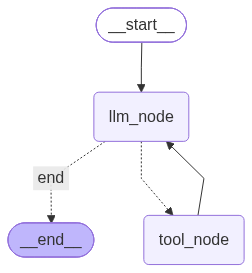
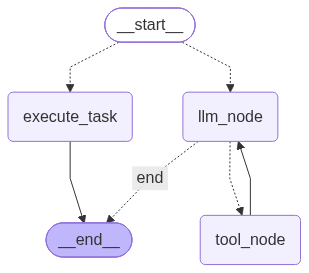
update to use etl agent

diff --git a/agents/etl_agent.py b/agents/etl_agent.py
@@ -4,8 +4,8 @@ import config
 from utils.llm_picker import get_llm
 from utils.etl_tools import ETLTools
 from utils.prompts import etl_prompt
-from Models.schema import ETLAgentSchema
-from database.etl_service import fetch_and_load_financial_data
+from Models.schema import ETLAgentSchema, ETLLoadOutcome
+from database.etl_service import fetch_and_load_company_profile, fetch_and_load_financial_data
 
 from langchain_core.messages import ToolMessage
 from langgraph.graph import StateGraph, START, END
@@ -34,8 +34,66 @@ def extract_load_tool(url: str, output_folder: str, output_format: str)->str:
 def financial_etl(ticker: str, dataset: str, required_years: list[int])->dict:
     """
     Tool function to fetch and load missing financial data for a ticker and years.
+    Args:
+        ticker (str): The stock ticker symbol.
+        dataset (str): The dataset to fetch and load (e.g., 'income-statement', 'balance-sheet', 'cash-flow').
+        required_years (list[int]): The list of years for which data is required.
+    Returns:
+        dict: A dictionary containing the status of the operation, loaded years, missing years, and any error messages.
     """
     return fetch_and_load_financial_data(ticker=ticker, dataset=dataset, required_years=required_years)
+
+
+@tool
+def company_profile_etl(ticker: str) -> dict:
+    """
+    Fetch and load a company profile.
+    """
+    return fetch_and_load_company_profile(ticker=ticker)
+
+
+def execute_task_node(state: ETLAgentSchema) -> ETLAgentSchema:
+    """
+    Execute a structured ETL task using the deterministic service layer.
+    """
+    
+    if state.dataset == "companies":
+        result = company_profile_etl.invoke({"ticker": state.ticker})
+    else:
+        result = financial_etl.invoke(
+            {
+                "ticker": state.ticker,
+                "dataset": state.dataset,
+                "required_years": state.required_years,
+            }
+        )
+
+    requested_years = state.required_years
+    loaded_years = (
+        requested_years
+        if result["success"] and state.dataset == "companies"
+        else [year for year in requested_years if year not in result.get("missing_years", requested_years)]
+    )
+    
+    if result["success"]:
+        status = "SUCCESS"
+    elif loaded_years:
+        status = "PARTIAL"
+    elif result.get("error"):
+        status = "FAILED"
+    else:
+        status = "UNAVAILABLE"
+
+    state.result = result
+    state.outcome = ETLLoadOutcome(
+        ticker=state.ticker,
+        dataset=state.dataset,
+        status=status,
+        loaded_years=loaded_years,
+        missing_years=result.get("missing_years", []),
+        error_message=result.get("error"),
+    )
+    return state
 
 
 def llm_node(state: ETLAgentSchema)-> ETLAgentSchema:
@@ -47,7 +105,7 @@ def llm_node(state: ETLAgentSchema)-> ETLAgentSchema:
     messages = state.messages
     
     llm=get_llm("low")
-    tools = [extract_load_tool, financial_etl]
+    tools = [extract_load_tool, financial_etl, company_profile_etl]
     chain = etl_prompt | llm.bind_tools(tools)
     response = chain.invoke({ "messages": messages })
     
@@ -61,7 +119,7 @@ def tool_node(state: ETLAgentSchema)-> ETLAgentSchema:
     This node is responsible for invoking the appropriate tool based on the user's question and the context provided by the LLM.
     """
     
-    tool_kits = [extract_load_tool, financial_etl]
+    tool_kits = [extract_load_tool, financial_etl, company_profile_etl]
     tools_result = []
     tool_by_name = {tool.name: tool for tool in tool_kits}
     
@@ -89,6 +147,7 @@ def build_etl_graph():
     
     graph = StateGraph(ETLAgentSchema)
     
+    graph.add_node("execute_task", execute_task_node)
     graph.add_node("llm_node", llm_node)
     graph.add_node("tool_node", tool_node)
     
@@ -99,7 +158,18 @@ def build_etl_graph():
             return "tool_node"
         return "end"
     
-    graph.add_edge(START, "llm_node")
+    def choose_entry(state: ETLAgentSchema):
+        return "execute_task" if state.ticker and state.dataset else "llm_node"
+
+    graph.add_conditional_edges(
+        START,
+        choose_entry,
+        {
+            "execute_task": "execute_task",
+            "llm_node": "llm_node",
+        },
+    )
+    graph.add_edge("execute_task", END)
     graph.add_conditional_edges(
         "llm_node",is_tool_call,
         {

diff --git a/agents/data_agent.py b/agents/data_agent.py
@@ -3,10 +3,10 @@ import config
 from utils.llm_picker import get_llm
 from utils.prompts import extract_query_entities_prompt
 from Models.schema import DataAgentSchema, QueryExtractionSchema
+from agents.etl_agent import build_etl_graph
 from agents.sql_agent import build_sql_graph
 
 from database.coverage import check_requested_coverage
-from database.etl_service import fetch_and_load_company_profile, fetch_and_load_financial_data
 
 from langchain_core.messages import SystemMessage, HumanMessage, AIMessage
 from langgraph.graph import StateGraph, START, END
@@ -102,7 +102,7 @@ def next_action_node(state: DataAgentSchema) -> DataAgentSchema:
 
 def etl_node(state: DataAgentSchema) -> DataAgentSchema:
     """
-    Fetch missing financial data using deterministic ETL.
+    Fetch missing financial data through the ETL specialist subgraph.
     """
 
     if state.attempts >= state.max_attempts:
@@ -111,22 +111,24 @@ def etl_node(state: DataAgentSchema) -> DataAgentSchema:
         return state
     
     state.attempts += 1
+    etl_graph = build_etl_graph()
 
     for dataset, missing_years in state.missing_data.items():
-        if dataset == "companies":
-            result = fetch_and_load_company_profile(ticker=state.ticker)
-            state.observations.append(
-                f"ETL result for {dataset}: {result}"
-                f" ETL attempt: {state.attempts}"
-            )
+        if dataset != "companies" and not missing_years:
             continue
-
-        if not missing_years:
-            continue
-        result = fetch_and_load_financial_data(ticker=state.ticker,dataset=dataset,required_years=missing_years)
+        response = etl_graph.invoke(
+            {
+                "ticker": state.ticker,
+                "dataset": dataset,
+                "required_years": missing_years,
+            }
+        )
+        response = response.model_dump() 
+        outcome = response.get("outcome", None)
+        result =  response.get("result", None)
 
         state.observations.append(
-            f"ETL result for {dataset}: {result}"
+            f"ETL result for {dataset}: {result}; outcome={outcome}"
             f" ETL attempt: {state.attempts}"
         )
 

diff --git a/tests/test_data_agent.py b/tests/test_data_agent.py
@@ -1,5 +1,5 @@
 from Models.schema import DataAgentSchema
-from agents.data_agent import next_action_node
+from agents.data_agent import etl_node, next_action_node
 
 
 def test_etl_stops_when_retry_limit_is_reached():
@@ -38,3 +38,41 @@ def test_etl_is_attempted_when_retries_remain():
     result = next_action_node(state)
 
     assert result.next_action == "fetch_missing_data"
+
+
+def test_etl_node_invokes_the_etl_subgraph(monkeypatch):
+    calls = []
+
+    class FakeETLGraph:
+        def invoke(self, task):
+            calls.append(task)
+            return {
+                "result": {
+                    "success": True,
+                    "missing_years": [],
+                },
+                "outcome": {
+                    "status": "SUCCESS",
+                },
+            }
+
+    monkeypatch.setattr(
+        "agents.data_agent.build_etl_graph",
+        lambda: FakeETLGraph(),
+    )
+
+    state = DataAgentSchema(
+        ticker="AAPL",
+        missing_data={"income_statement": [2024]},
+    )
+
+    result = etl_node(state)
+
+    assert calls == [
+        {
+            "ticker": "AAPL",
+            "dataset": "income_statement",
+            "required_years": [2024],
+        }
+    ]
+    assert "ETL result for income_statement" in result.observations[0]

diff --git a/Models/schema.py b/Models/schema.py
@@ -1,3 +1,5 @@
+from __future__ import annotations
+
 from pydantic import BaseModel, Field
 from typing import Literal
 
@@ -31,6 +33,11 @@ class JudgeSchema(BaseModel):
 
 class ETLAgentSchema(BaseModel):
     messages: list = Field(default_factory=list, description="List of messages to be processed by the agent")
+    ticker: str = Field(default="", description="Ticker symbol for the ETL task")
+    dataset: str = Field(default="", description="Dataset to fetch and load")
+    required_years: list[int] = Field(default_factory=list, description="Fiscal years to fetch")
+    result: dict = Field(default_factory=dict, description="Structured result of the ETL task")
+    outcome: ETLLoadOutcome | None = Field(default=None, description="Normalized ETL task outcome")
 
 
 class DataAgentSchema(BaseModel):
